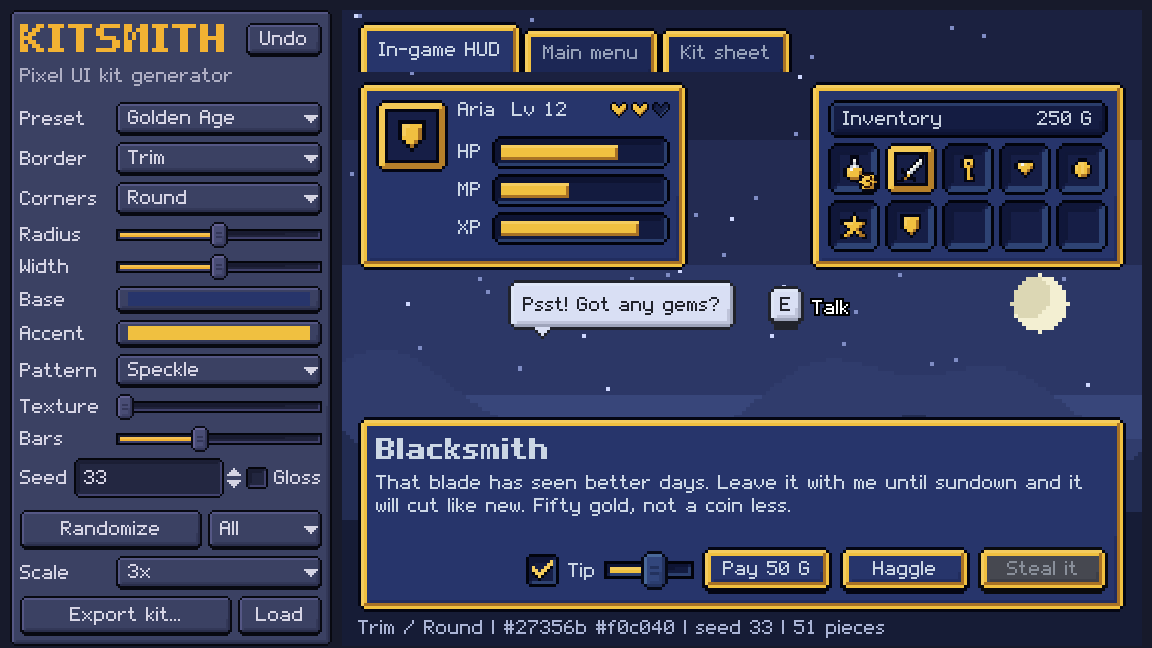
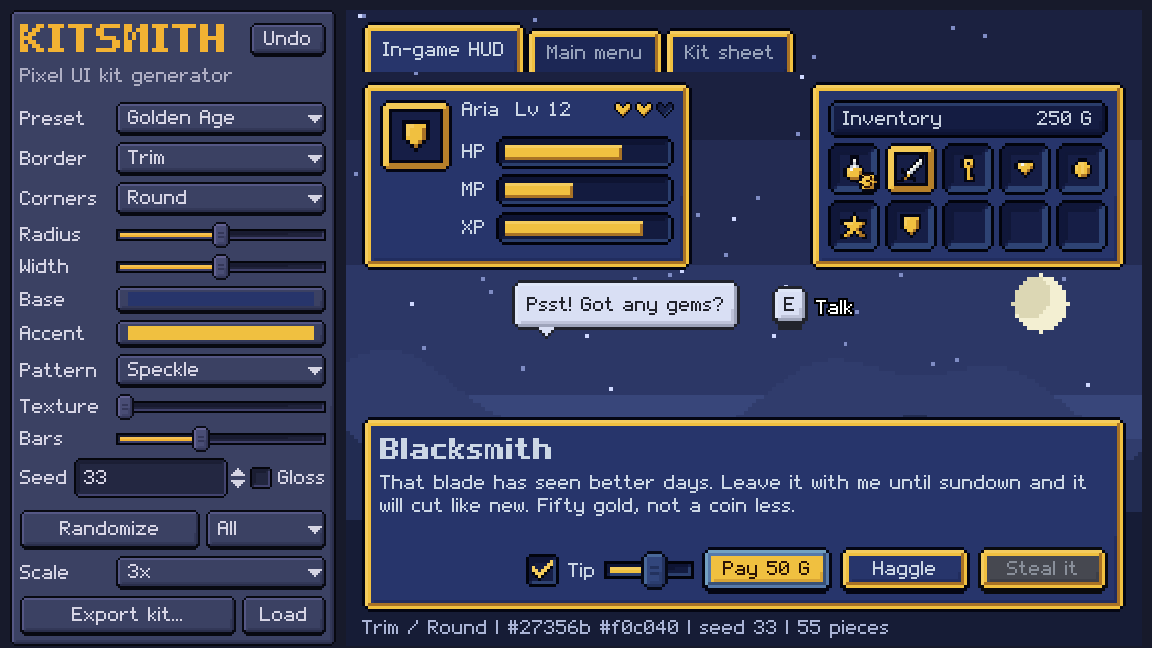
README: pieces and editor plugin of the full Kitsmith; demo and screenshots refreshed

diff --git a/README.md b/README.md
@@ -45,10 +45,11 @@ Run the demo with `demo/demo.tscn` (or F5): click a swatch or pick any colour.
 Kitsmith Lite has one look and three pieces. **Kitsmith**, the full tool, is a generator with a live preview on a
 game HUD and a menu:
 
-- 51 pieces: tabs, sliders, check boxes, toggles, progress bars, speech bubble, focus ring, key caps, cursor, 9 item
-  icons and 10 interface glyphs.
+- 55 pieces: tabs, sliders, check boxes, toggles, progress bars, primary buttons, speech bubble, focus ring, key caps,
+  cursor, 9 item icons and 10 interface glyphs.
 - 8 border styles, 3 corner shapes, 4 fill patterns, 14 presets and a Randomize button.
 - A pixel font in three faces (regular, bold, outline).
+- Runs on its own or as a plugin inside the Godot editor.
 - Exports PNGs with 9-slice margins, a sprite sheet + JSON for any engine, BMFont files, CSS, and a complete Godot 4
   Theme in a single file.
 
